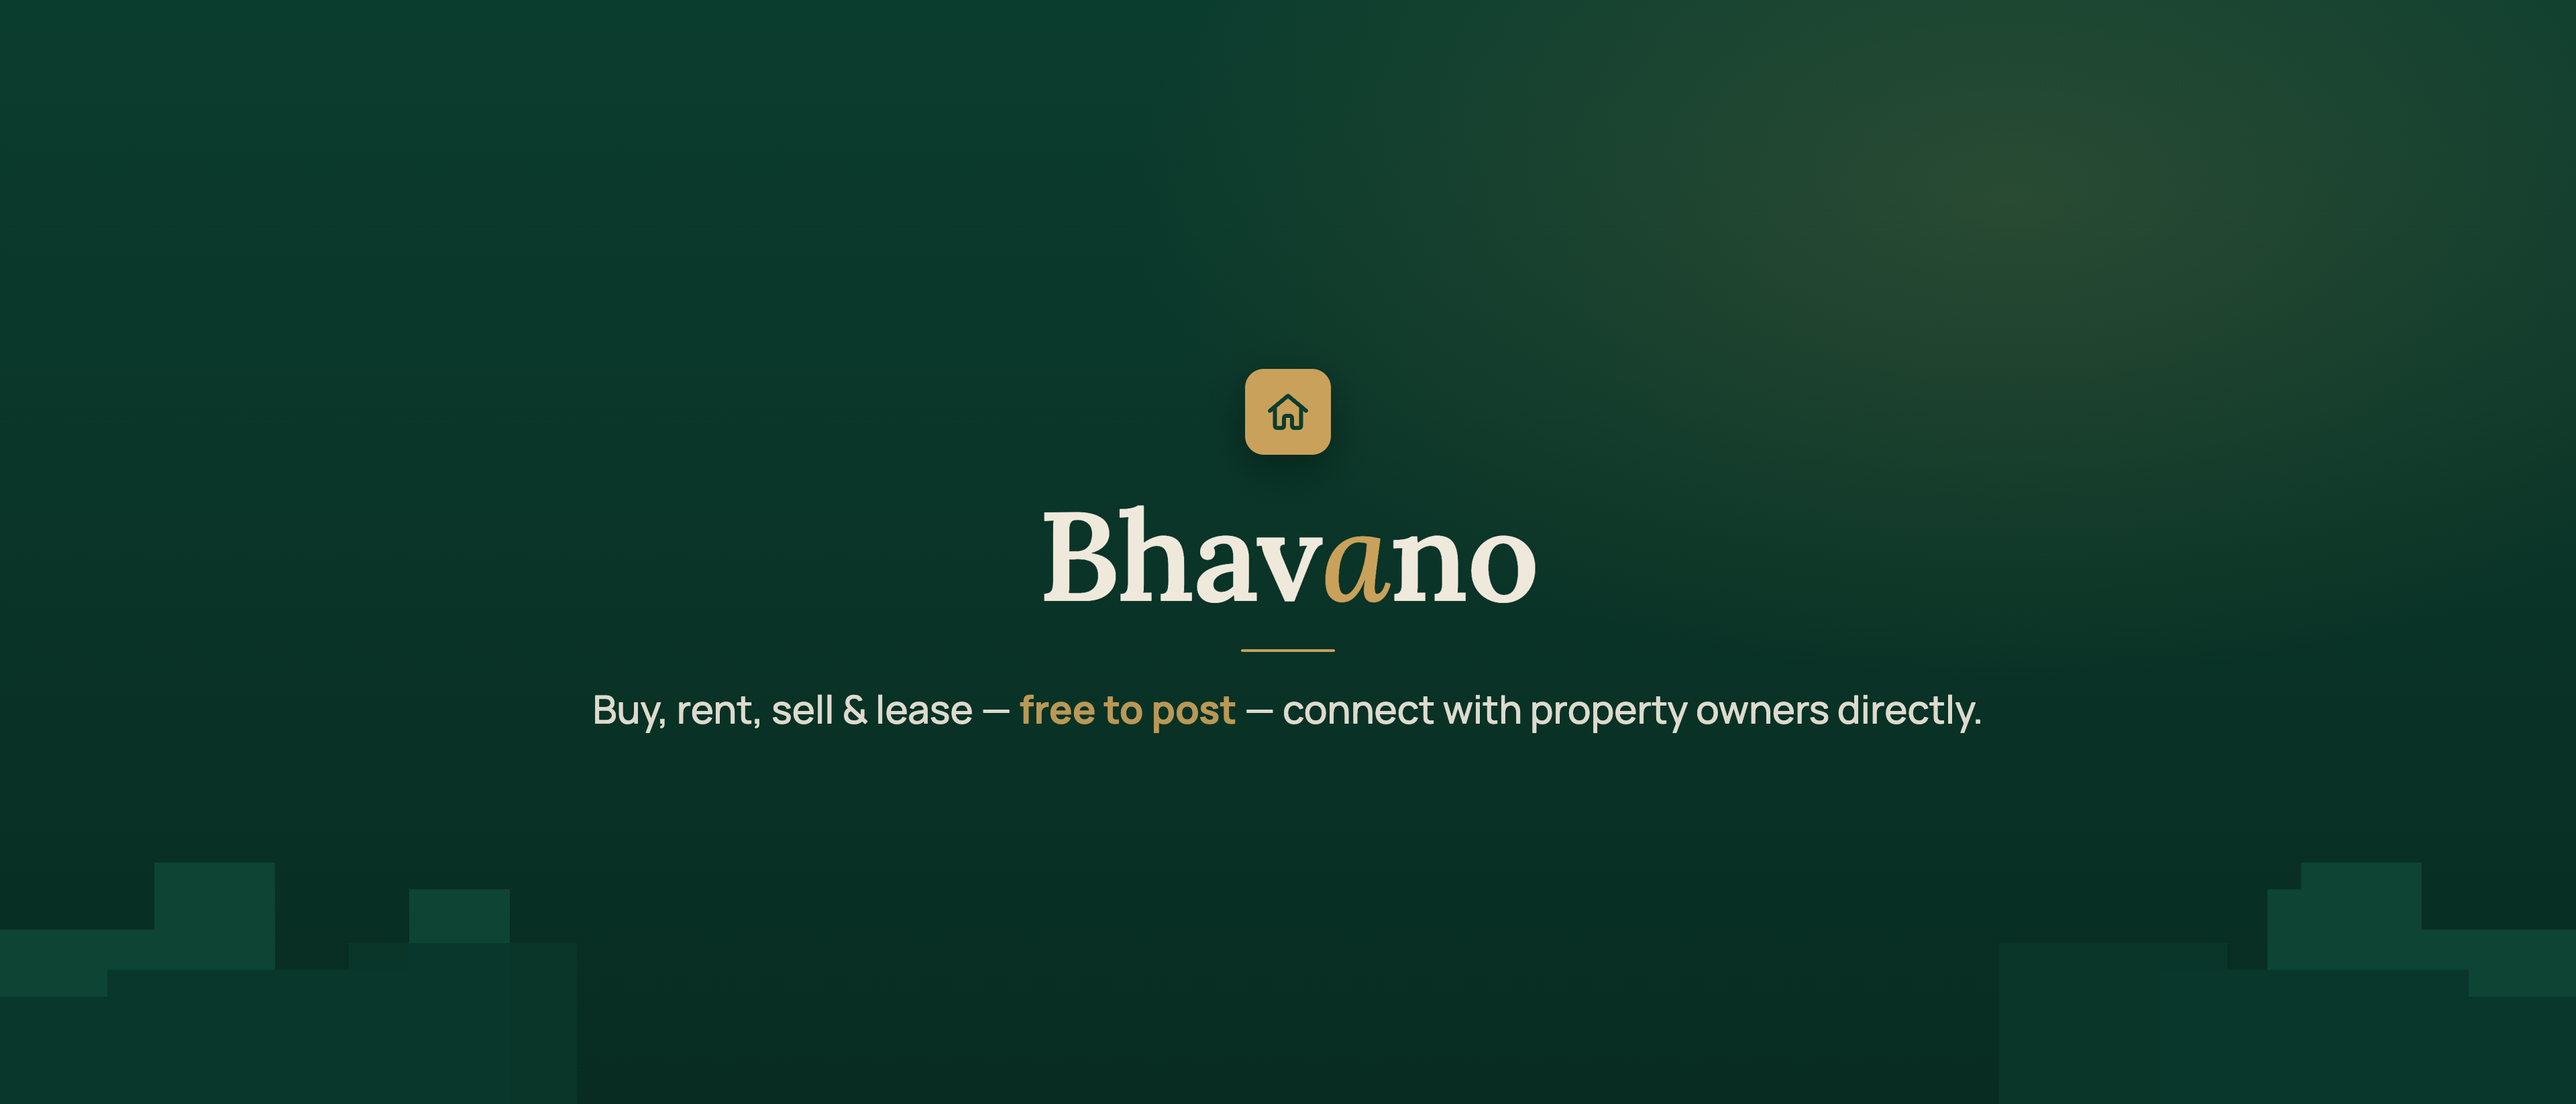
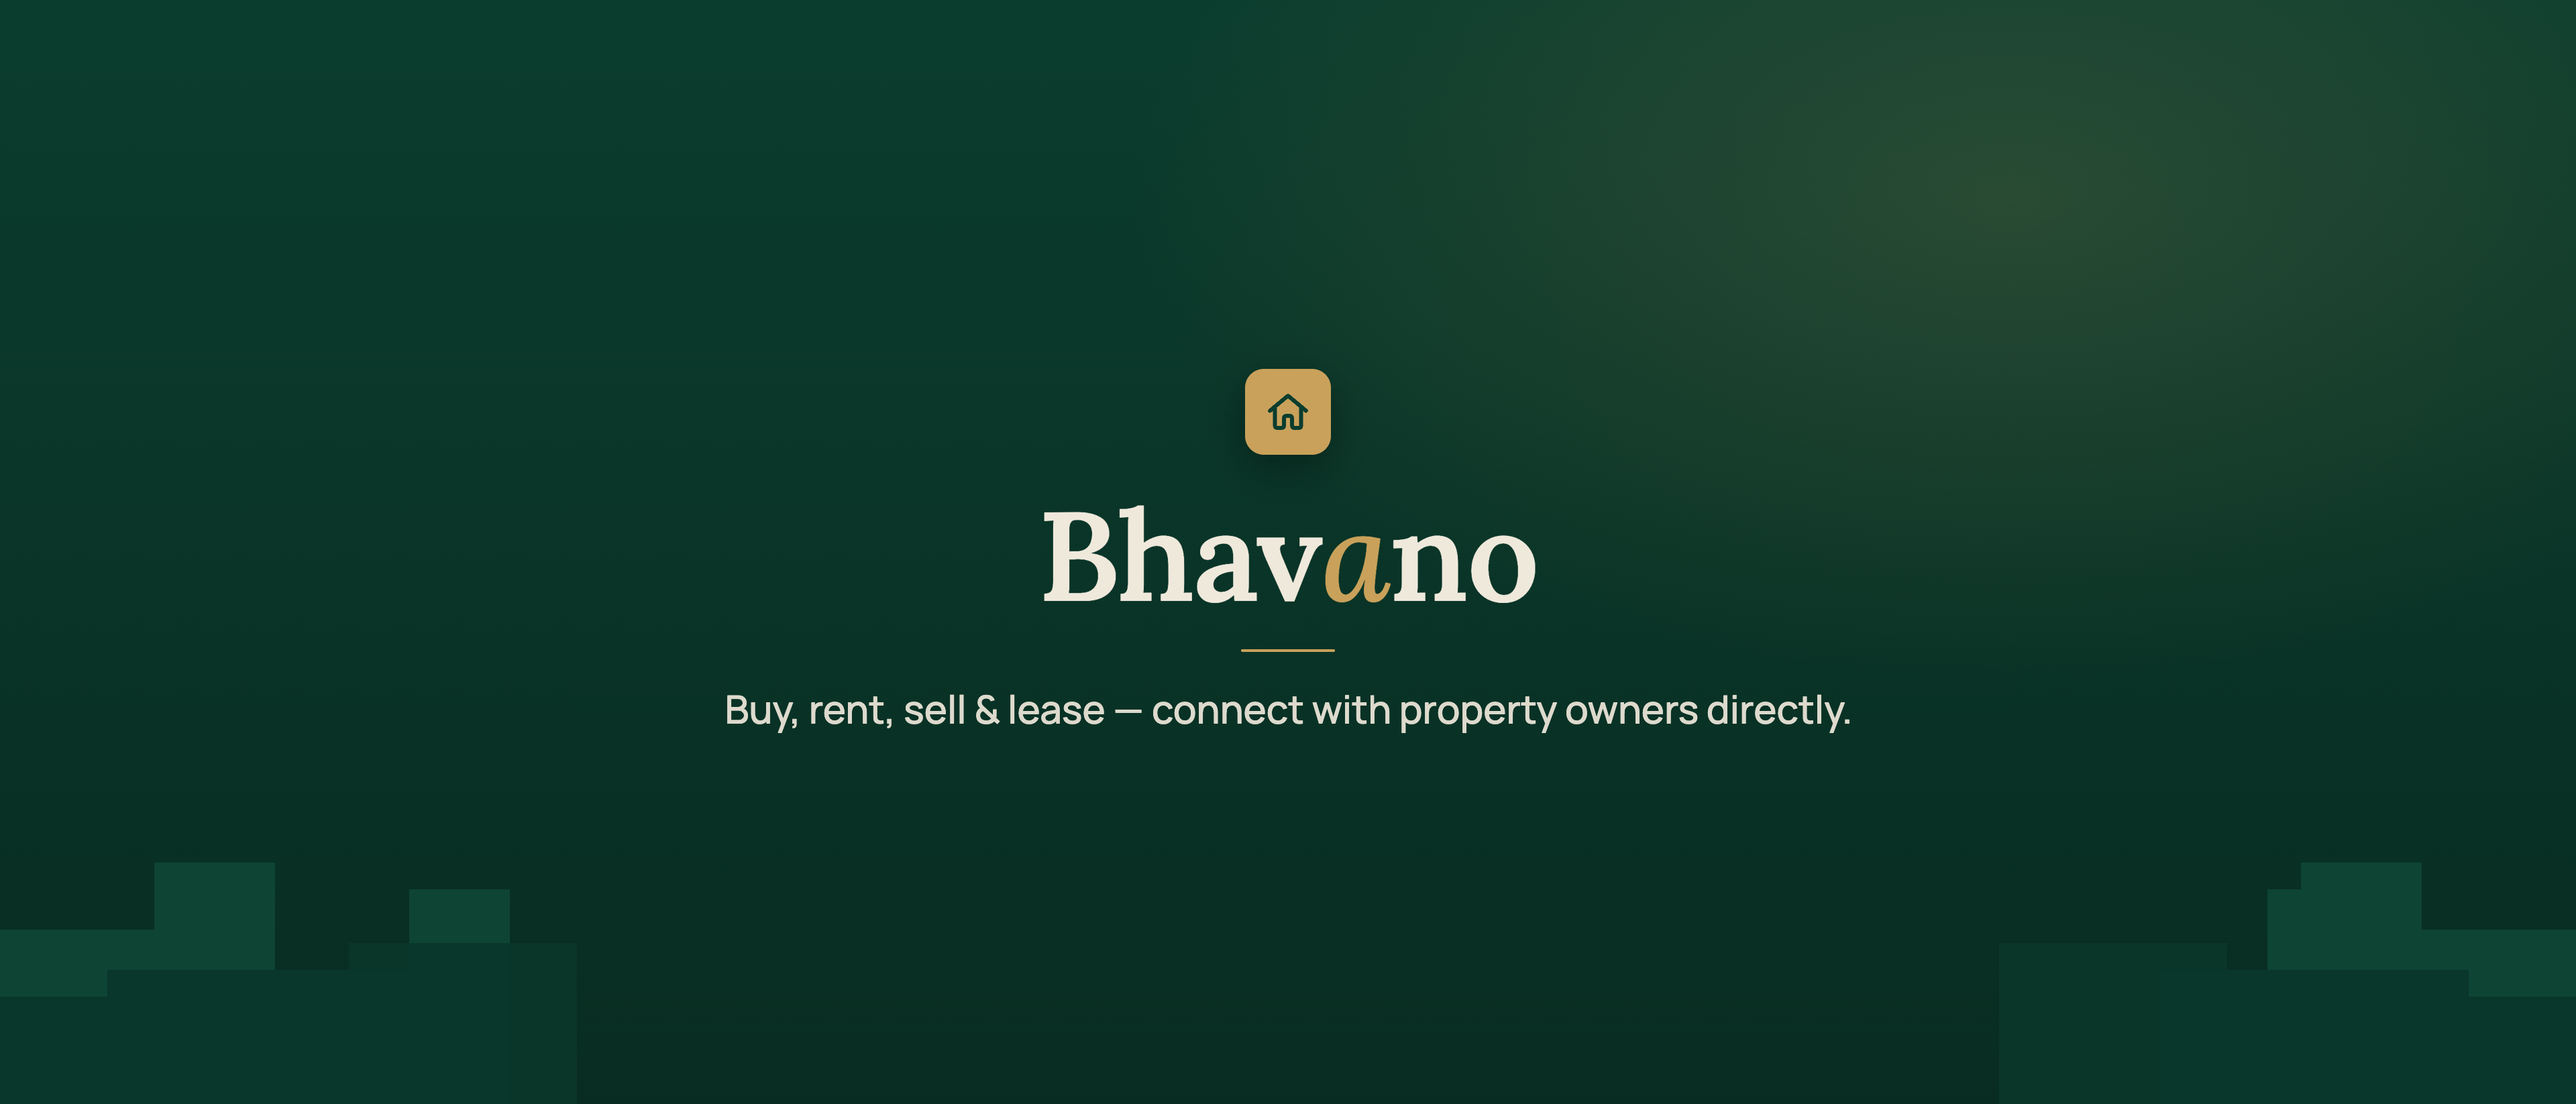
iOS review 1.2.0 (22): remove 'free to post' from the App Store creative images; record the four rejection reasons and causes

Changed region(s): [[0.2188, 0.6197, 0.7812, 0.6817]]

diff --git a/apps/mobile/assets/remove_price_tagline.py b/apps/mobile/assets/remove_price_tagline.py
@@ -1,0 +1,84 @@
+"""Removes "free to post —" from the two App Store creative images (Guideline 2.3.7: price references, including "free", are not allowed in app metadata).
+
+The tagline "Buy, rent, sell & lease — free to post — connect with property owners directly." becomes "Buy, rent, sell & lease — connect with property owners directly."
+The original text pixels are kept: the band the tagline sits in is refilled from the background on either side of it, then the left part (up to the first dash) and the
+right part (from "connect") are pasted back next to each other and centred. Run from the repo root:
+
+    python apps/mobile/assets/remove_price_tagline.py
+
+Rewrites app-store-universal.png and app-store-header.png in place (git has the originals).
+"""
+
+from pathlib import Path
+
+import numpy as np
+from PIL import Image
+
+HERE = Path(__file__).parent
+FILES = ["app-store-universal.png", "app-store-header.png"]
+
+
+def runs(mask: np.ndarray, min_gap: int):
+    """Column runs of True, merging runs closer than min_gap."""
+    idx = np.flatnonzero(mask)
+    if idx.size == 0:
+        return []
+    out, start, prev = [], idx[0], idx[0]
+    for i in idx[1:]:
+        if i - prev > min_gap:
+            out.append((start, prev))
+            start = i
+        prev = i
+    out.append((start, prev))
+    return out
+
+
+def fix(path: Path) -> None:
+    img = np.array(Image.open(path).convert("RGB")).astype(np.float32)
+    h, w, _ = img.shape
+    r, g, b = img[..., 0], img[..., 1], img[..., 2]
+    gold = (r - b > 80) & (r > 140)  # the gold "free to post"; also the gold "a" and divider above it, which sit higher up
+    lo = int(h * 0.585)
+    rows = np.flatnonzero(gold[lo:].sum(axis=1) > 0.04 * w) + lo  # wide gold rows below the wordmark: the tagline's gold words
+    y0, y1 = rows.min(), rows.max()
+    pad = int((y1 - y0) * 1.5)  # ascenders and descenders of the cream text
+    top, bottom = max(0, y0 - pad), min(h, y1 + pad)
+
+    gold_runs = [r_ for r_ in runs(gold[top:bottom].any(axis=0), 40) if r_[1] - r_[0] > 50]
+    gx0, gx1 = gold_runs[0]
+    cream = (r > 150) & (g > 150) & (b > 120) & ~gold
+    word_runs = runs(cream[top:bottom].any(axis=0), 6)
+    left_text = min(a for a, _ in word_runs)
+    right_text = max(b_ for _, b_ in word_runs)
+    left_end = max(b_ for a, b_ in word_runs if b_ < gx0)  # end of the first dash
+    after = [(a, b_) for a, b_ in word_runs if a > gx1]
+    dash2, connect = after[0], after[1]  # the second dash, then the start of "connect"
+    cut_start = gx0
+    gap = gx0 - left_end
+
+    # Refill the whole text span from the clean columns either side (linear blend per row).
+    margin = int(w * 0.01)
+    xl, xr = max(0, left_text - margin), min(w - 1, right_text + margin)
+    out = img.copy()
+    span = np.arange(xl, xr + 1)
+    t = ((span - xl) / (xr - xl))[None, :, None]
+    left_col = img[top:bottom, xl:xl + 1]
+    right_col = img[top:bottom, xr:xr + 1]
+    out[top:bottom, xl:xr + 1] = left_col * (1 - t) + right_col * t
+
+    left_piece = img[top:bottom, left_text:left_end + 1]
+    right_piece = img[top:bottom, connect[0]:right_text + 1]
+    total = left_piece.shape[1] + gap + right_piece.shape[1]
+    start = int(round((w - total) / 2))
+    # The new text can be a little narrower than the band that was cleared; the blend above already covers the old span.
+    out[top:bottom, start:start + left_piece.shape[1]] = left_piece
+    rs = start + left_piece.shape[1] + gap
+    out[top:bottom, rs:rs + right_piece.shape[1]] = right_piece
+
+    Image.fromarray(np.clip(out, 0, 255).astype(np.uint8)).save(path, optimize=True)
+    print(f"{path.name}: rows {top}-{bottom}, removed columns {cut_start}-{connect[0]}, text now {start}-{rs + right_piece.shape[1]} of {w}")
+
+
+if __name__ == "__main__":
+    for name in FILES:
+        fix(HERE / name)

diff --git a/docs/plans/ios-app-store-release.md b/docs/plans/ios-app-store-release.md
@@ -294,3 +294,10 @@ which reviews nothing for internal testers.
   that platform); Android opens the native checkout. Real StoreKit in-app purchase for iOS boosts
   remains unbuilt — this is a workaround, not a resolution, if boosts are meant to work natively
   on iOS eventually.
+
+## 2026-10-31: build 1.2.0 (22) rejected again (2.1(a), 2.3.6, 2.3.7, 3.1.1)
+
+- **2.3.7 price in creative assets.** `apps/mobile/assets/app-store-universal.png` and `app-store-header.png` said "free to post". Apple counts "free" as a price reference. Both were edited (`apps/mobile/assets/remove_price_tagline.py`, which keeps the original pixels and closes up the gap) and now read "Buy, rent, sell & lease — connect with property owners directly." They must be re-uploaded in App Store Connect; the screenshots and any app preview there need the same check (no "free", no prices, no plan names with prices).
+- **2.1(a) Sign in with Apple "unable to sign in".** Not a code fault in `POST /auth/apple`. Production's login setting (`GET https://api.bhavano.com/auth/login-methods`, checked 2026-10-31) is `emailLogin: existing_no_phone` with `phoneRequirement: required` (the 2026-10-28 email-login switch, see `email-login-switch.md`). In that mode Google / Apple sign-in is refused for any **new** account, so the reviewer's fresh Apple ID gets "Please sign in with your mobile number."; and with phone "required" an undismissable add-your-number prompt would block a reviewer who has no Indian number even after sign-in. `email-login-switch.md` warned about exactly this. For review: Admin > Settings > Login methods, set **all** and phone requirement **Don't ask** until the build is approved, then return to the migration mode.
+- **2.3.6 age rating.** App Store Connect > App Information > Age Rating: answer **Yes** to "Messaging and Chat" (the app has owner / seeker messaging). Not a code change.
+- **3.1.1 In-App Purchase.** Apple says paid plans are accessed in the app but are not purchasable with In-App Purchase. Check in App Store Connect that every product in `packages/types/src/appleProducts.ts` exists, is "Ready to Submit" and is attached to the 1.2.0 submission (first-time products are reviewed with the binary), and that the review notes explain how to test them. Anything the iOS app shows that is only purchasable elsewhere (publish fee, Instant Alerts alone, multi-unit Agent Pro) must not look like a plan the user can use or buy there. Apple's four attached screenshots show which screen they hit; they need to be looked at.
